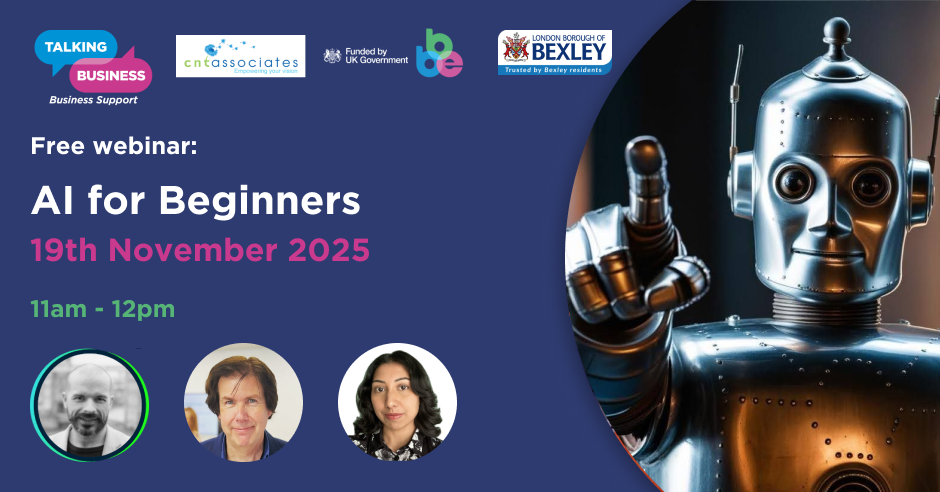
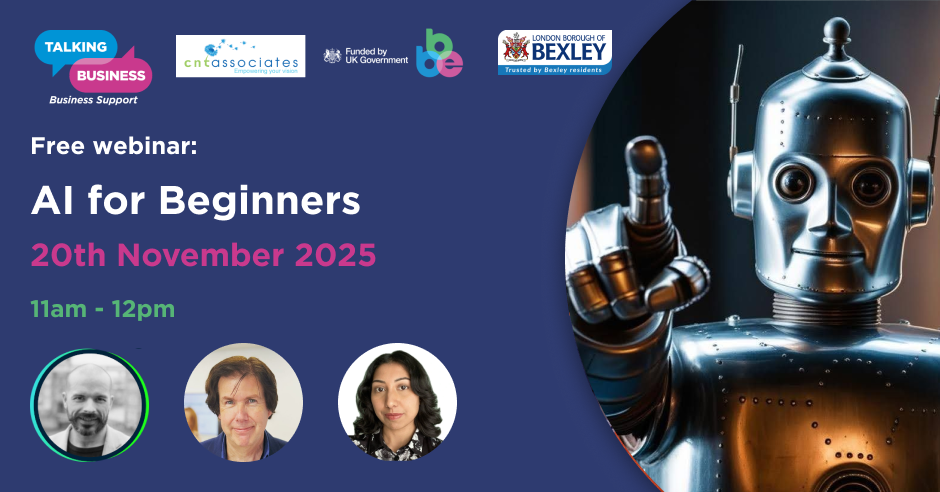
Update AI for Beginners

Changed region(s): [[0.0309, 0.4878, 0.4011, 0.5488]]

diff --git a/training.html b/training.html
@@ -245,7 +245,7 @@ permalink: /training/
                         </div>
                         <div class="col-7">
                             <h3>AI for Beginners</h3>
-                            <p><strong>📅 Wednesday 19th November 2025, 11am-12pm GMT</strong></p>
+                            <p><strong>📅 Thursday 20th November 2025, 11am-12pm GMT</strong></p>
                             <p>This is a general introduction to AI which assumes no previous knowledge. We will look at and review current developments in AI and how these can be utilised and leveraged to support your business.</p>
                             <div class="padding-btn">
                                 <a class ="btn-primary" href="https://www.eventbrite.co.uk/e/ai-for-beginners-free-via-zoom-tickets-1381832591479" target="_blank" rel="noopener noreferrer">Register Now</a>
